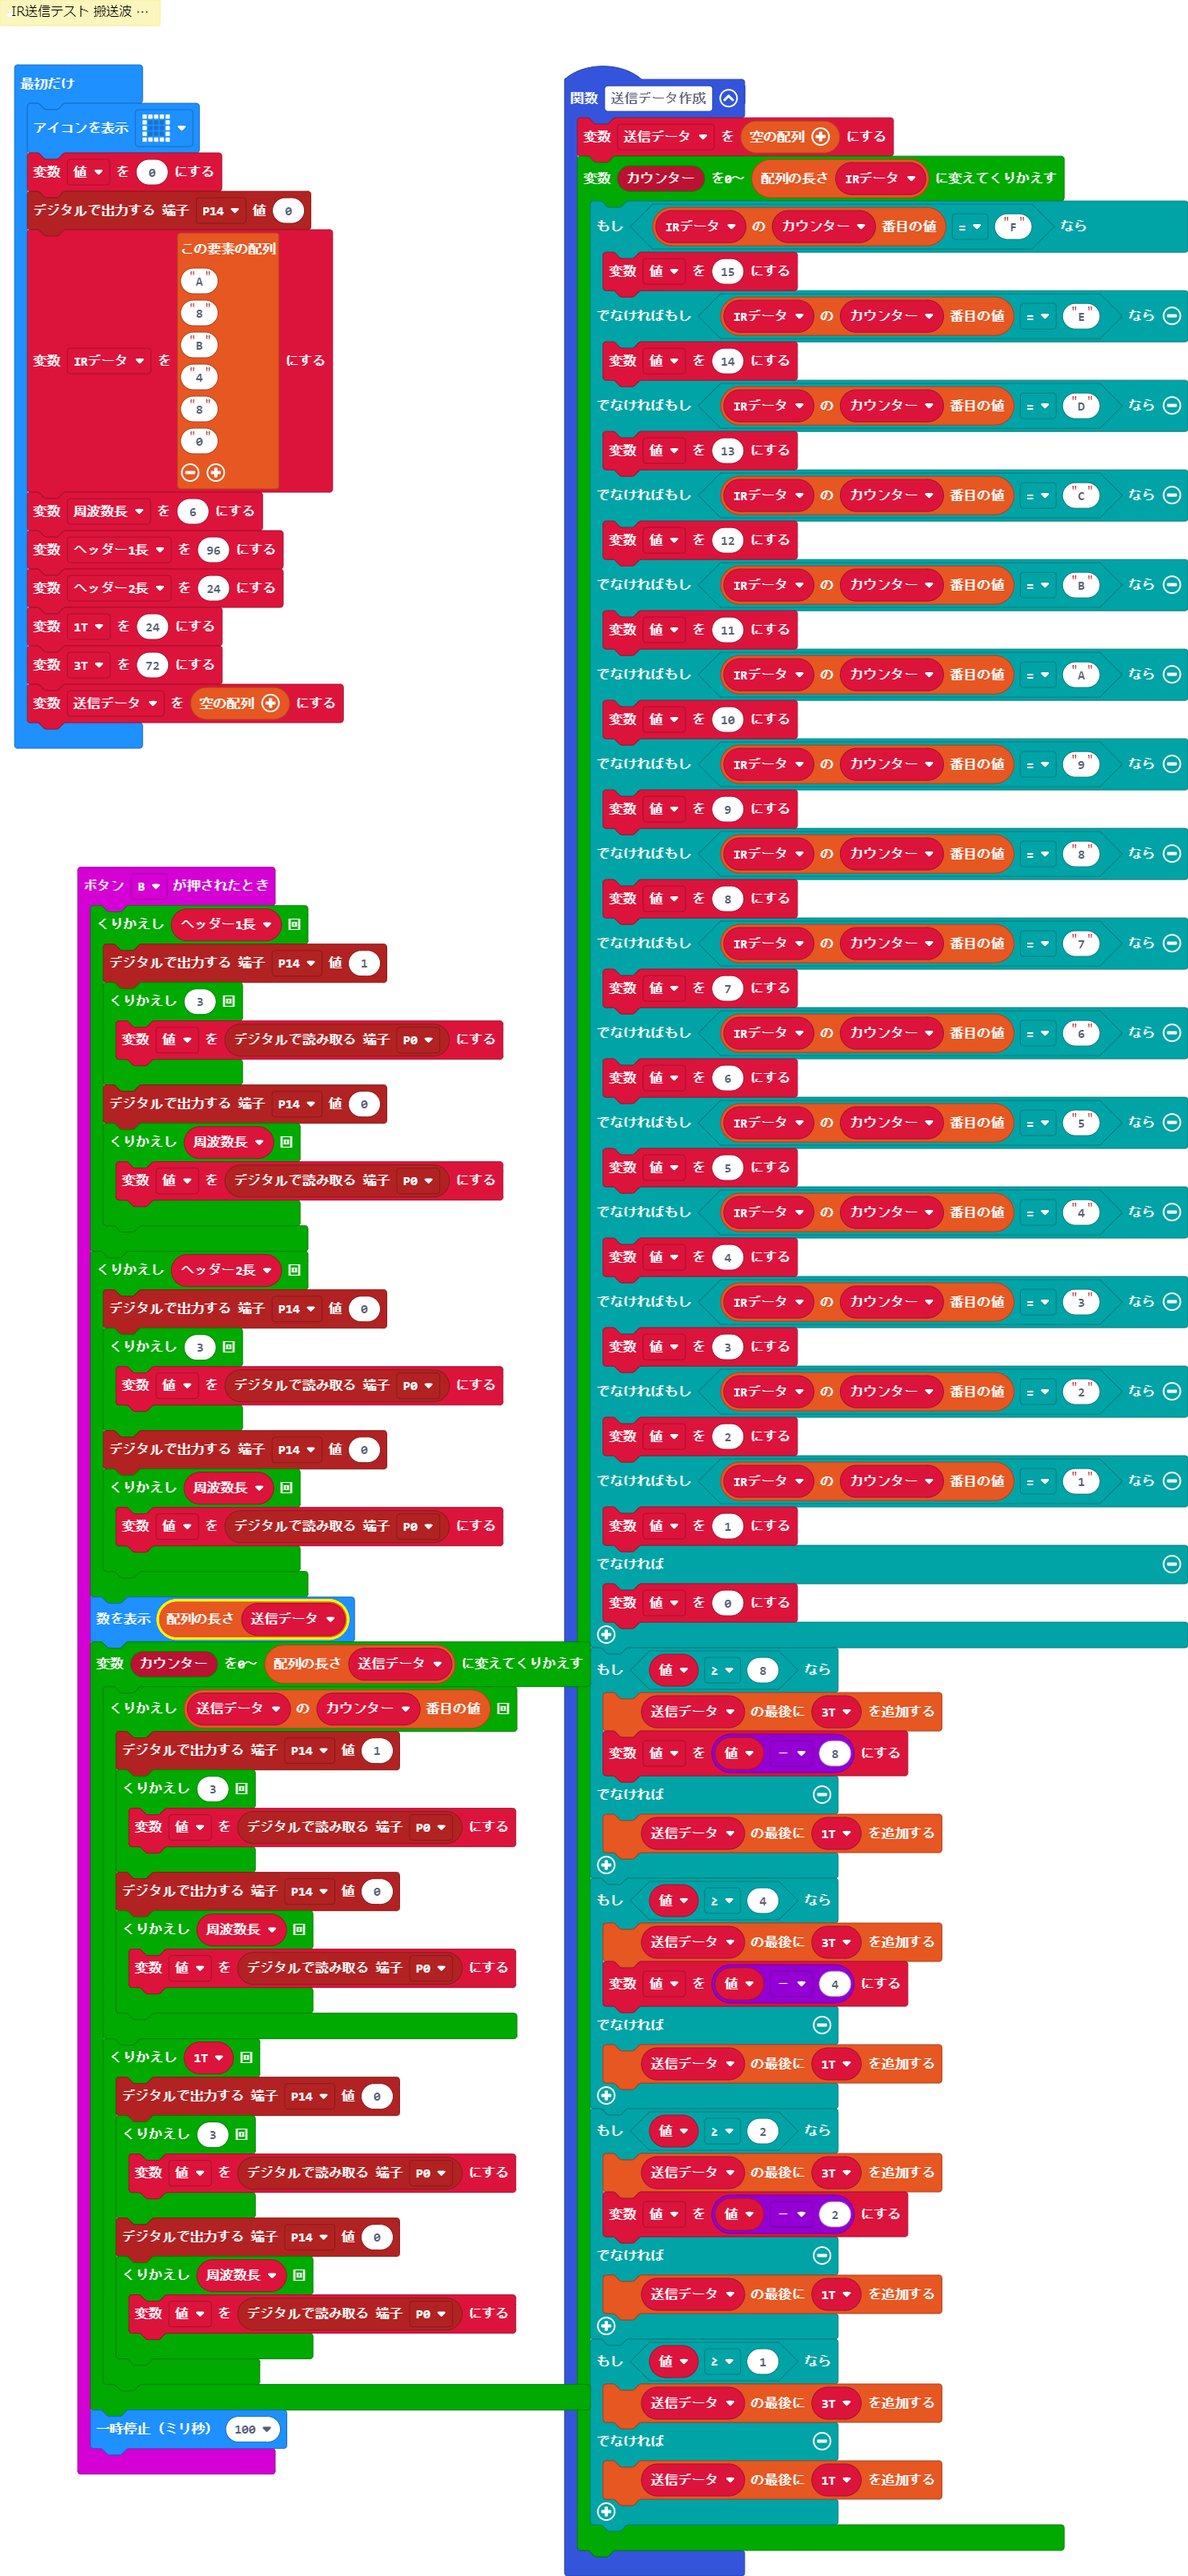
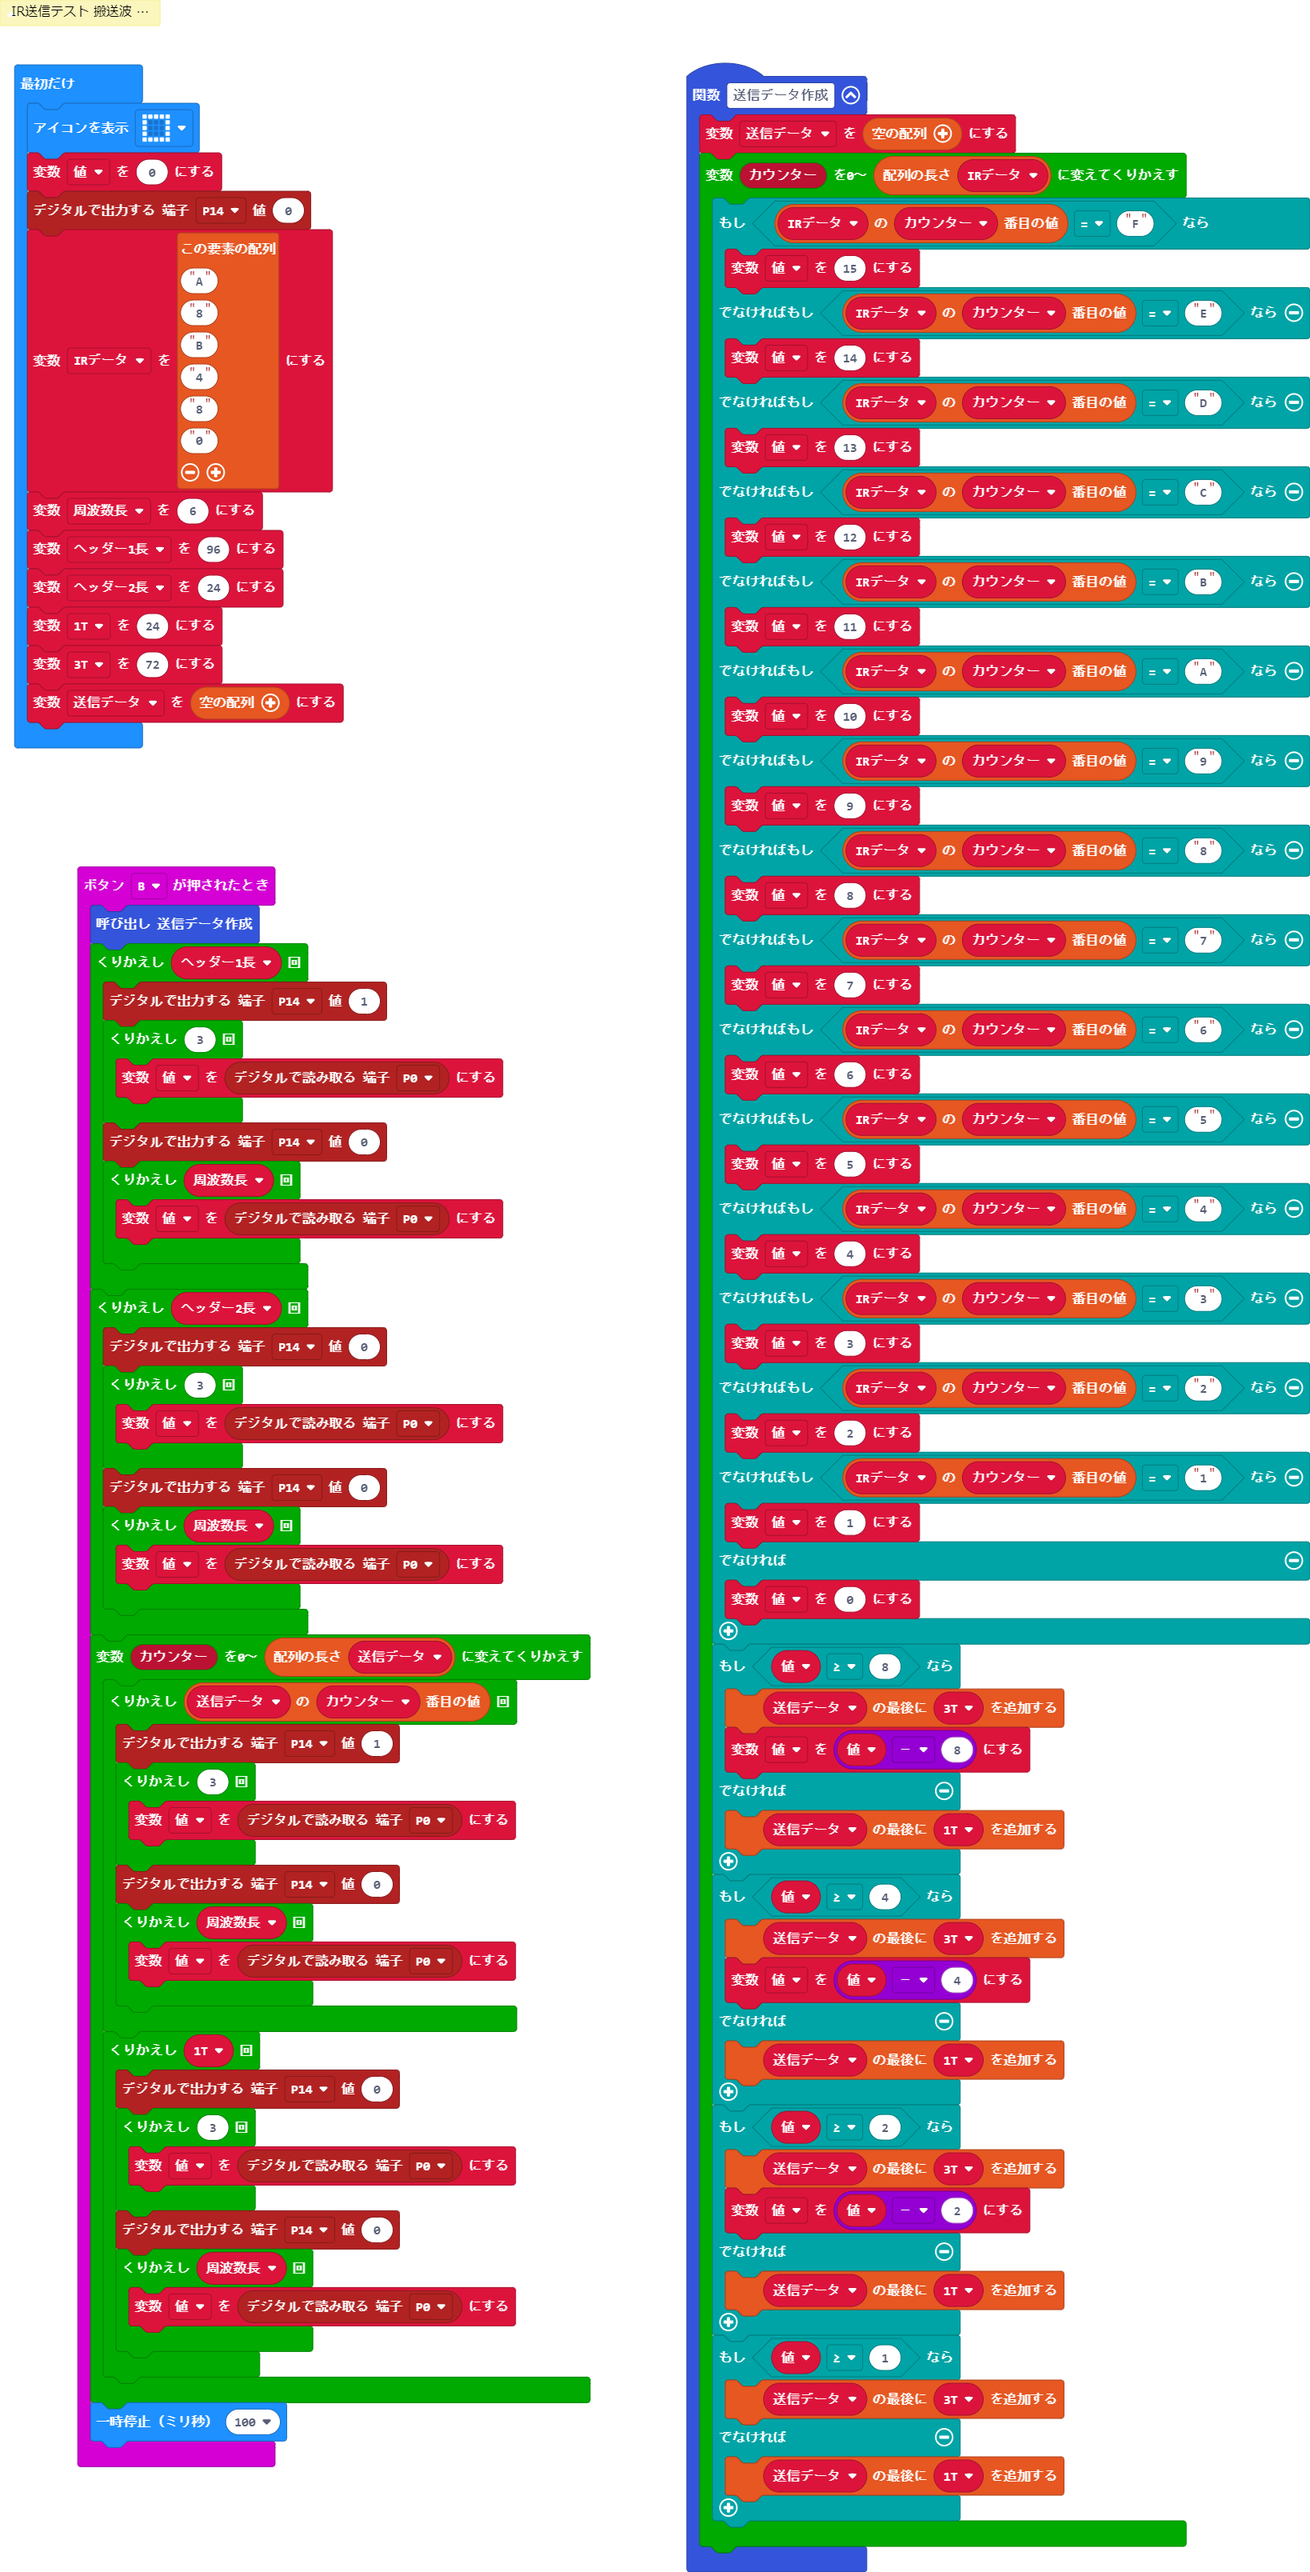
更新 main.blocks, main.ts

diff --git a/main.ts b/main.ts
@@ -1,4 +1,5 @@
 input.onButtonPressed(Button.B, function () {
+    送信データ作成()
     for (let index = 0; index < ヘッダー1長; index++) {
         pins.digitalWritePin(DigitalPin.P14, 1)
         for (let index = 0; index < 3; index++) {
@@ -19,7 +20,6 @@ input.onButtonPressed(Button.B, function () {
             値 = pins.digitalReadPin(DigitalPin.P0)
         }
     }
-    basic.showNumber(送信データ.length)
     for (let カウンター = 0; カウンター <= 送信データ.length; カウンター++) {
         for (let index = 0; index < 送信データ[カウンター]; index++) {
             pins.digitalWritePin(DigitalPin.P14, 1)
